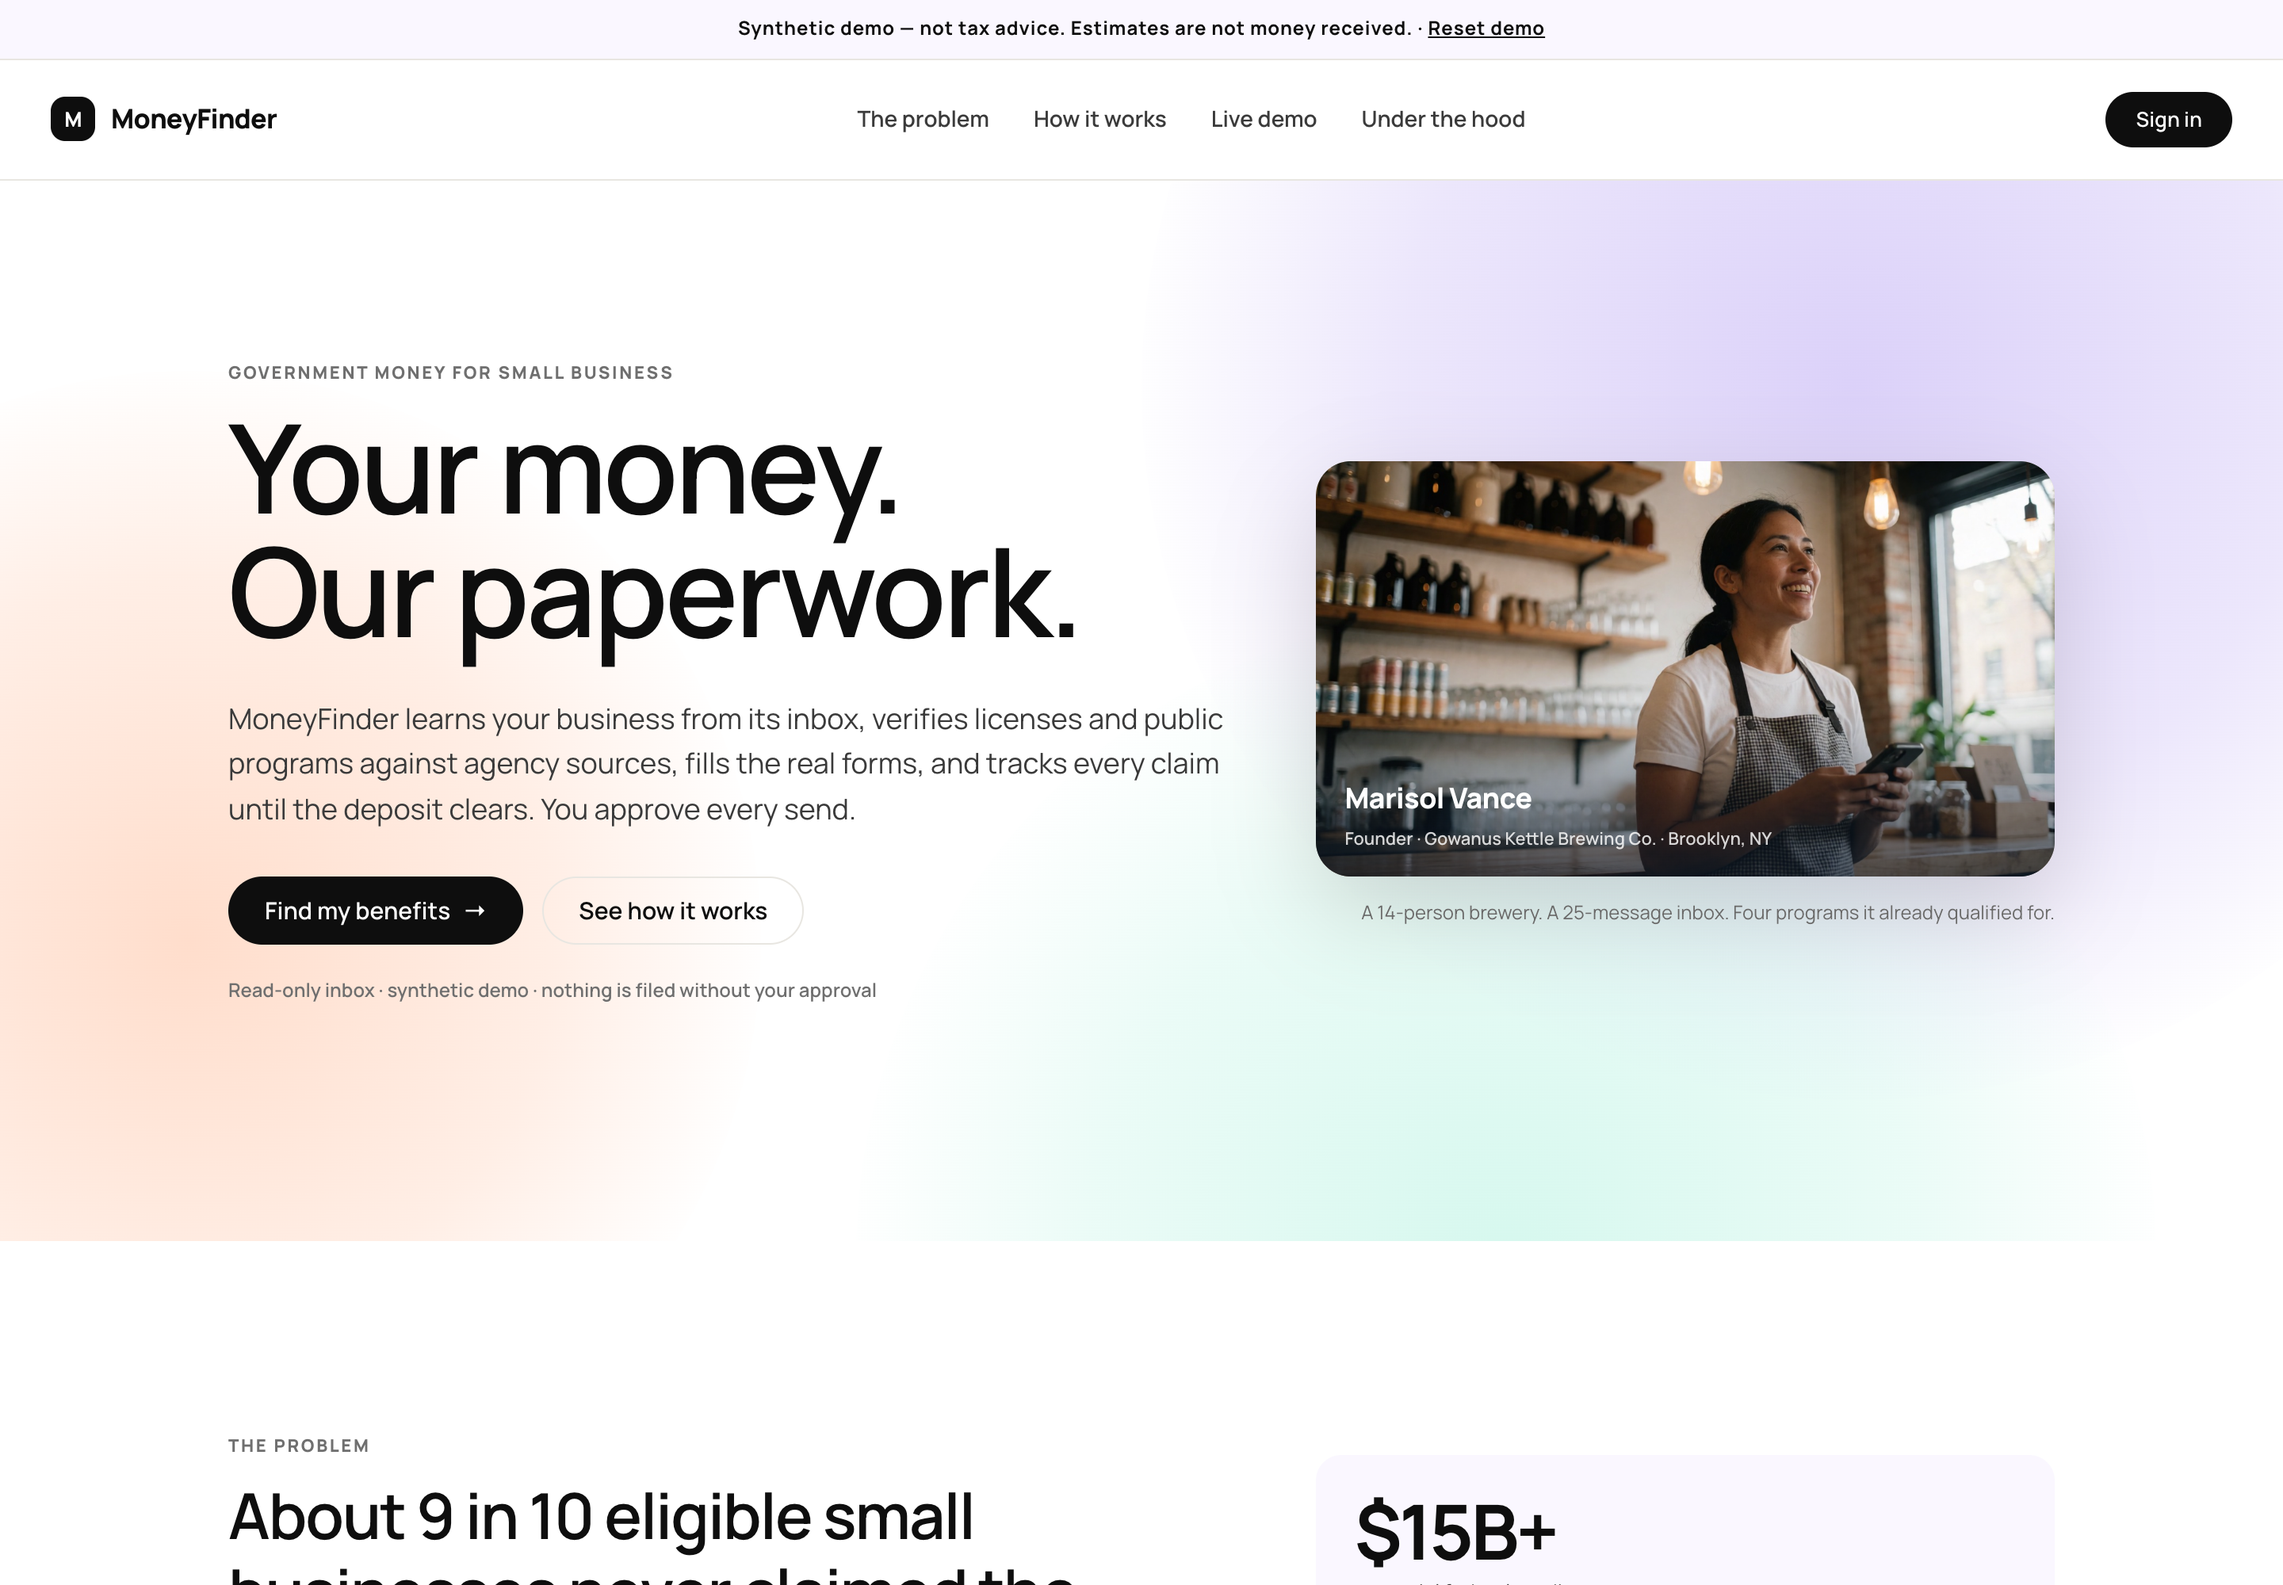
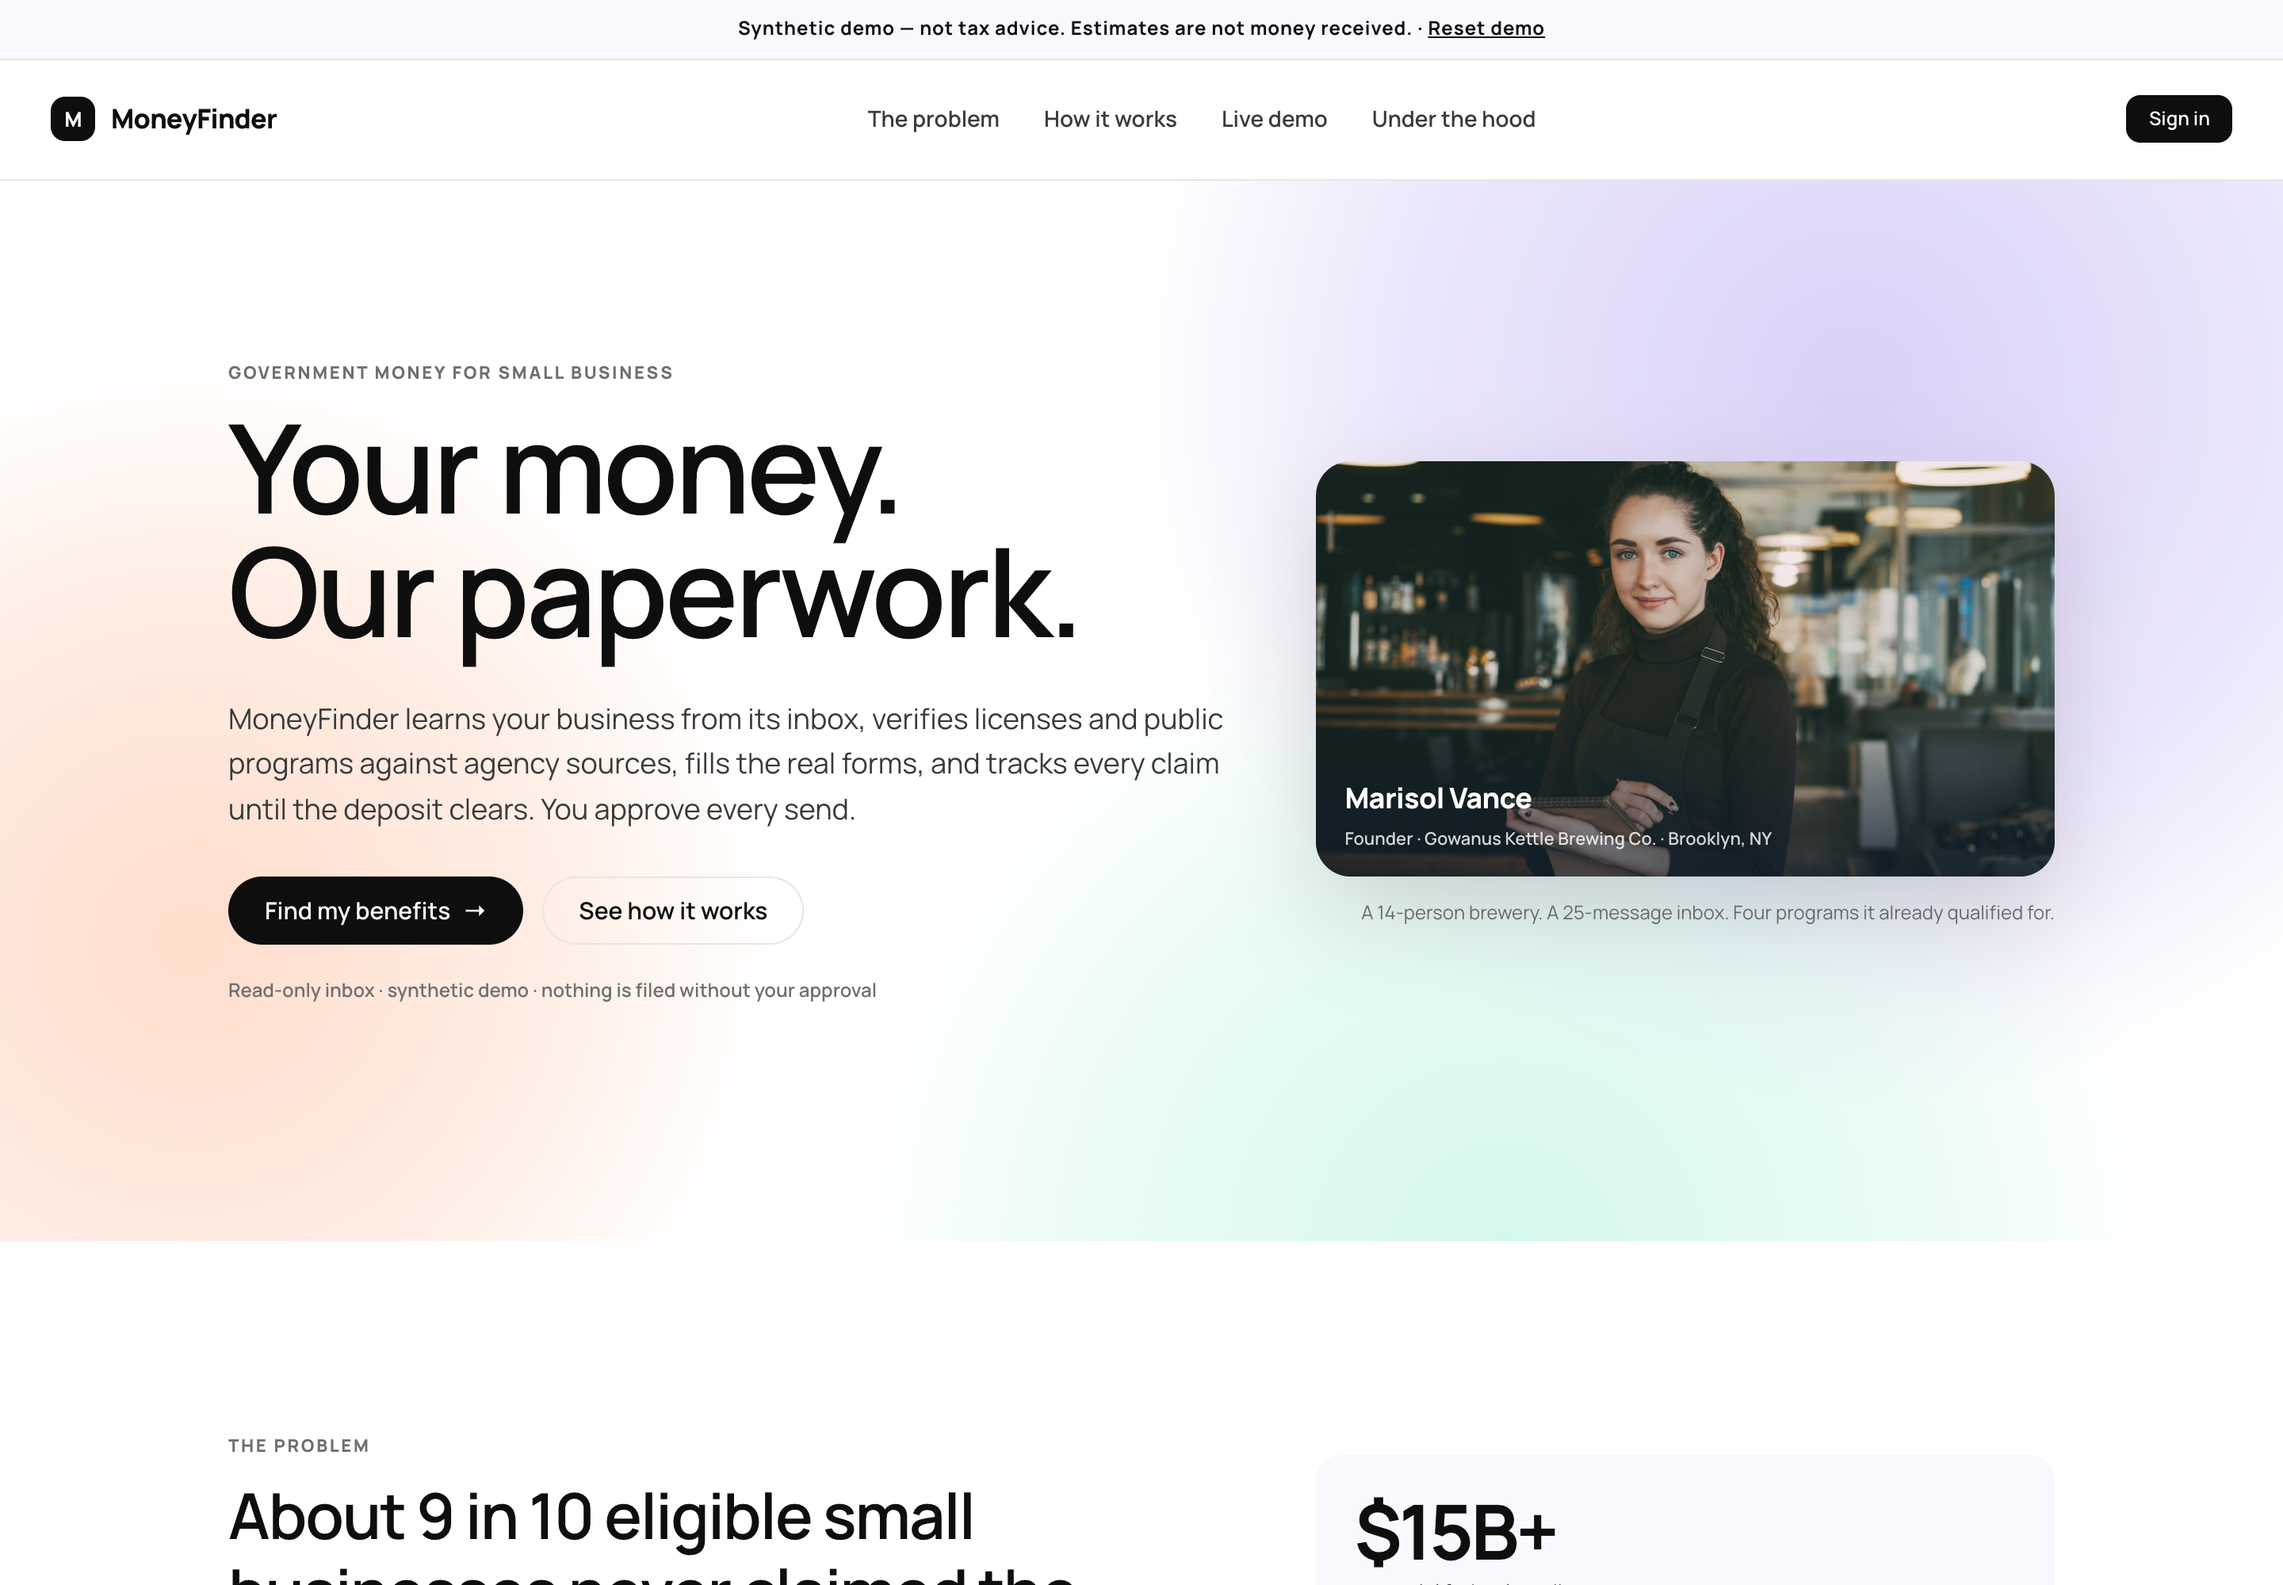
feat(auth): TurboTax-inspired split sign-in with stock photo + refund phone

diff --git a/app/templates/signin.html b/app/templates/signin.html
@@ -1,31 +1,57 @@
 {% extends "base_public.html" %}
 {% block title %}Sign in · MoneyFinder{% endblock %}
 {% block content %}
-<section class="auth-wrap">
-  <div class="hero-blob blob-lavender"></div>
-  <div class="hero-blob blob-peach"></div>
-  <div class="auth-card">
-    <a class="wordmark center" href="{{ url_for('flow.landing') }}"><span class="wordmark-glyph">M</span> MoneyFinder</a>
-    <h1>Welcome back.</h1>
-    <p class="auth-sub">Sign in to pick up your claims. This demo uses a synthetic Gmail mailbox, not a real Google account.</p>
-    {% with messages = get_flashed_messages() %}
-      {% if messages %}<div class="flash error">{{ messages[0] }}</div>{% endif %}
-    {% endwith %}
-    <form method="post" action="{{ url_for('flow.signin') }}" class="auth-form">
-      <input type="hidden" name="email" value="marisol@gowanuskettle.example">
-      <button class="sso-btn" type="submit">
-        <svg viewBox="0 0 48 48" aria-hidden="true">
-          <path fill="#FFC107" d="M43.6 20.5H42V20H24v8h11.3C33.7 32.7 29.2 36 24 36c-6.6 0-12-5.4-12-12s5.4-12 12-12c3.1 0 5.9 1.2 8 3.1l5.7-5.7C34.1 6.1 29.3 4 24 4 12.9 4 4 12.9 4 24s8.9 20 20 20 20-8.9 20-20c0-1.3-.1-2.3-.4-3.5z"/>
-          <path fill="#FF3D00" d="M6.3 14.7l6.6 4.8C14.7 15.1 19 12 24 12c3.1 0 5.9 1.2 8 3.1l5.7-5.7C34.1 6.1 29.3 4 24 4 16.3 4 9.7 8.3 6.3 14.7z"/>
-          <path fill="#4CAF50" d="M24 44c5.2 0 9.9-2 13.4-5.2l-6.2-5.2C29.2 35.1 26.7 36 24 36c-5.2 0-9.6-3.3-11.3-7.9l-6.5 5C9.5 39.6 16.2 44 24 44z"/>
-          <path fill="#1976D2" d="M43.6 20.5H42V20H24v8h11.3c-.8 2.3-2.3 4.2-4.1 5.6l6.2 5.2C36.9 39.2 44 34 44 24c0-1.3-.1-2.3-.4-3.5z"/>
-        </svg>
-        Continue with Google
-      </button>
-    </form>
-    <p class="auth-fine">Demo SSO · no password · synthetic inbox. By continuing you agree to the demo terms.</p>
-    <p class="auth-note">Demo account: Marisol Vance · Gowanus Kettle Brewing Co. LLC</p>
-    <a class="back-link" href="{{ url_for('flow.landing') }}">← Back to home</a>
+<section class="auth-split">
+  <div class="auth-visual">
+    <img src="{{ url_for('static', filename='img/auth-marisol.jpg') }}"
+         alt="Small business owner smiling behind the counter of her café">
+    <div class="auth-visual-shade"></div>
+    <div class="auth-visual-copy">
+      <p class="eyebrow light">Small business, big refund</p>
+      <h2>You’re owed<br>more than you think.</h2>
+      <p>One inbox scan found <strong>$45,737</strong> across four programs for a 14-person Brooklyn brewery. This is a synthetic demo.</p>
+    </div>
+
+    <div class="refund-phone" aria-label="Mock phone showing a potential refund">
+      <div class="refund-phone-screen">
+        <div class="refund-phone-top"><span>MoneyFinder</span><i></i></div>
+        <span class="refund-check">✓ Identified</span>
+        <p class="refund-label">Potential refund</p>
+        <strong class="refund-amount">$45,737</strong>
+        <p class="refund-meta">4 programs · IT-636, IT-643, IT-212, 8846</p>
+        <div class="refund-bar"><span></span></div>
+        <div class="refund-row"><span>IT-636</span><b>$13,471</b></div>
+        <div class="refund-row"><span>IT-643</span><b>$15,075</b></div>
+        <p class="refund-demo">Synthetic demo · not money received</p>
+      </div>
+    </div>
+    <p class="photo-credit">Photo: Vitaly Gariev / Unsplash</p>
+  </div>
+
+  <div class="auth-panel">
+    <div class="auth-card">
+      <a class="wordmark center" href="{{ url_for('flow.landing') }}"><span class="wordmark-glyph">M</span> MoneyFinder</a>
+      <h1>Welcome back.</h1>
+      <p class="auth-sub">Sign in to pick up your claims. This demo uses a synthetic Gmail mailbox, not a real Google account.</p>
+      {% with messages = get_flashed_messages() %}
+        {% if messages %}<div class="flash error">{{ messages[0] }}</div>{% endif %}
+      {% endwith %}
+      <form method="post" action="{{ url_for('flow.signin') }}" class="auth-form">
+        <input type="hidden" name="email" value="marisol@gowanuskettle.example">
+        <button class="sso-btn" type="submit">
+          <svg viewBox="0 0 48 48" aria-hidden="true">
+            <path fill="#FFC107" d="M43.6 20.5H42V20H24v8h11.3C33.7 32.7 29.2 36 24 36c-6.6 0-12-5.4-12-12s5.4-12 12-12c3.1 0 5.9 1.2 8 3.1l5.7-5.7C34.1 6.1 29.3 4 24 4 12.9 4 4 12.9 4 24s8.9 20 20 20 20-8.9 20-20c0-1.3-.1-2.3-.4-3.5z"/>
+            <path fill="#FF3D00" d="M6.3 14.7l6.6 4.8C14.7 15.1 19 12 24 12c3.1 0 5.9 1.2 8 3.1l5.7-5.7C34.1 6.1 29.3 4 24 4 16.3 4 9.7 8.3 6.3 14.7z"/>
+            <path fill="#4CAF50" d="M24 44c5.2 0 9.9-2 13.4-5.2l-6.2-5.2C29.2 35.1 26.7 36 24 36c-5.2 0-9.6-3.3-11.3-7.9l-6.5 5C9.5 39.6 16.2 44 24 44z"/>
+            <path fill="#1976D2" d="M43.6 20.5H42V20H24v8h11.3c-.8 2.3-2.3 4.2-4.1 5.6l6.2 5.2C36.9 39.2 44 34 44 24c0-1.3-.1-2.3-.4-3.5z"/>
+          </svg>
+          Continue with Google
+        </button>
+      </form>
+      <p class="auth-fine">Demo SSO · no password · synthetic inbox. By continuing you agree to the demo terms.</p>
+      <p class="auth-note">Demo account: Marisol Vance · Gowanus Kettle Brewing Co. LLC</p>
+      <a class="back-link" href="{{ url_for('flow.landing') }}">← Back to home</a>
+    </div>
   </div>
 </section>
 <script>

diff --git a/app/static/css/app.css b/app/static/css/app.css
@@ -708,3 +708,48 @@ select:focus, input:focus { outline: 2px solid var(--ink); outline-offset: 1px; 
 .doc-lightbox-close { position: absolute; top: 10px; right: 12px; z-index: 2; background: rgba(255,255,255,.9); border-radius: 50%; width: 32px; height: 32px; }
 @media (max-width: 900px) { .docs-gallery { grid-template-columns: repeat(2, 1fr); } .doc-lightbox-card { grid-template-columns: 1fr; max-height: 92vh; } .doc-lightbox-preview { max-height: 55vh; } }
 @media (max-width: 560px) { .docs-gallery { grid-template-columns: 1fr; } }
+
+/* ---------- TurboTax-inspired split sign-in ---------- */
+.auth-split { display: grid; grid-template-columns: 1.12fr .88fr; min-height: calc(100vh - 57px); background: var(--cream); }
+.auth-visual { position: relative; overflow: hidden; min-height: 680px; background: #1a1714; }
+.auth-visual > img { position: absolute; inset: 0; width: 100%; height: 100%; object-fit: cover; }
+.auth-visual-shade { position: absolute; inset: 0; background: linear-gradient(90deg, rgba(14,27,44,.78) 0%, rgba(14,27,44,.36) 55%, rgba(14,27,44,.08) 100%), linear-gradient(0deg, rgba(14,27,44,.72) 0%, transparent 55%); }
+.auth-visual-copy { position: absolute; z-index: 1; left: 52px; right: 40px; top: 48px; max-width: 560px; color: #fff; }
+.auth-visual-copy h2 { color: #fff; text-shadow: 0 2px 30px rgba(0,0,0,.35); font-size: clamp(38px, 4vw, 58px); line-height: .98; letter-spacing: -2.4px; margin: 10px 0 18px; }
+.auth-visual-copy p { font-size: 15px; line-height: 1.55; color: rgba(255,255,255,.78); max-width: 46ch; margin: 0; }
+.auth-visual-copy p strong { color: #c9f27a; }
+.refund-phone { position: absolute; z-index: 2; left: 56px; bottom: 48px; width: 254px; padding: 9px; border-radius: 34px; background: #0e1b2c; box-shadow: 0 28px 70px rgba(0,0,0,.4); transform: rotate(-2deg); }
+.refund-phone-screen { padding: 17px 15px 13px; border-radius: 26px; background: #fff; color: var(--ink); }
+.refund-phone-top { display: flex; justify-content: space-between; align-items: center; font-size: 9px; font-weight: 800; letter-spacing: .08em; text-transform: uppercase; color: var(--muted); }
+.refund-phone-top i { width: 22px; height: 4px; border-radius: 4px; background: var(--line); }
+.refund-check { display: inline-flex; margin-top: 14px; padding: 4px 7px; border-radius: 999px; background: var(--mint); color: var(--success); font-size: 9px; font-weight: 800; letter-spacing: .04em; text-transform: uppercase; }
+.refund-label { margin: 12px 0 0; font-size: 9px; font-weight: 800; letter-spacing: .1em; text-transform: uppercase; color: var(--muted); }
+.refund-amount { display: block; margin: 3px 0 6px; font-size: 42px; line-height: .95; letter-spacing: -2px; font-weight: 800; color: #167a4a; }
+.refund-meta { margin: 0; font-size: 9px; line-height: 1.4; color: var(--muted); }
+.refund-bar { height: 5px; margin: 14px 0 9px; border-radius: 999px; background: #eee9df; overflow: hidden; }
+.refund-bar span { display: block; width: 78%; height: 100%; border-radius: 999px; background: #167a4a; }
+.refund-row { display: flex; justify-content: space-between; padding: 5px 0; border-top: 1px solid var(--line); font-size: 10px; }
+.refund-row span { color: var(--muted); font-weight: 600; }
+.refund-row b { font-weight: 800; }
+.refund-demo { margin: 10px 0 0; font-size: 8px; color: var(--muted); }
+.photo-credit { position: absolute; z-index: 2; right: 14px; bottom: 10px; font-size: 9px; color: rgba(255,255,255,.62); }
+.auth-panel { display: grid; place-items: center; padding: 56px 28px; background: var(--cream); }
+.auth-panel .auth-card { width: 100%; max-width: 400px; background: #fff; border: 1px solid var(--line); border-radius: 22px; padding: 38px 34px; box-shadow: 0 22px 60px rgba(37,30,20,.08); }
+.auth-panel .auth-card h1 { font-size: 38px; letter-spacing: -1.6px; }
+@media (max-width: 1000px) {
+  .auth-split { grid-template-columns: 1fr; }
+  .auth-visual { min-height: 470px; }
+  .auth-visual-copy { left: 28px; top: 28px; max-width: 420px; }
+  .auth-visual-copy h2 { font-size: 38px; }
+  .auth-visual-copy p { font-size: 13px; }
+  .refund-phone { left: 28px; bottom: 26px; width: 210px; }
+  .refund-amount { font-size: 34px; }
+  .auth-panel { padding: 36px 20px; }
+}
+@media (max-width: 560px) {
+  .auth-visual { min-height: 420px; }
+  .auth-visual-copy h2 { font-size: 33px; }
+  .refund-phone { width: 176px; left: 18px; bottom: 20px; }
+  .refund-amount { font-size: 28px; }
+  .refund-row, .refund-meta { display: none; }
+}

diff --git a/docs/ASSETS.md b/docs/ASSETS.md
@@ -1,0 +1,17 @@
+# Image assets
+
+## Hero — Marisol persona
+- File: `app/static/img/hero-marisol.jpg`
+- Source: Unsplash, photo `1758519289791-ffce8889ca8c` — “Woman in apron holding tablet in restaurant” by **Andrew Teoh**
+- Unsplash photo: https://unsplash.com/photos/0e2eYxBiP6A
+- License: Unsplash License (free to use; attribution appreciated)
+- Used as the synthetic persona Marisol Vance, founder of Gowanus Kettle Brewing Co.
+
+## Sign-in visual
+- File: `app/static/img/auth-marisol.jpg`
+- Source: Unsplash, photo `1757936613818-916978e2cdd3` — “A woman smiling in a cafe with bookshelves behind her” by **Vitaly Gariev**
+- Unsplash photo: https://unsplash.com/photos/Y45_5KrgKkw
+- License: Unsplash License
+- The refund phone mockup is our own UI, not part of the photo.
+
+Both photos are stock; the business, amounts and documents in the demo are synthetic.
